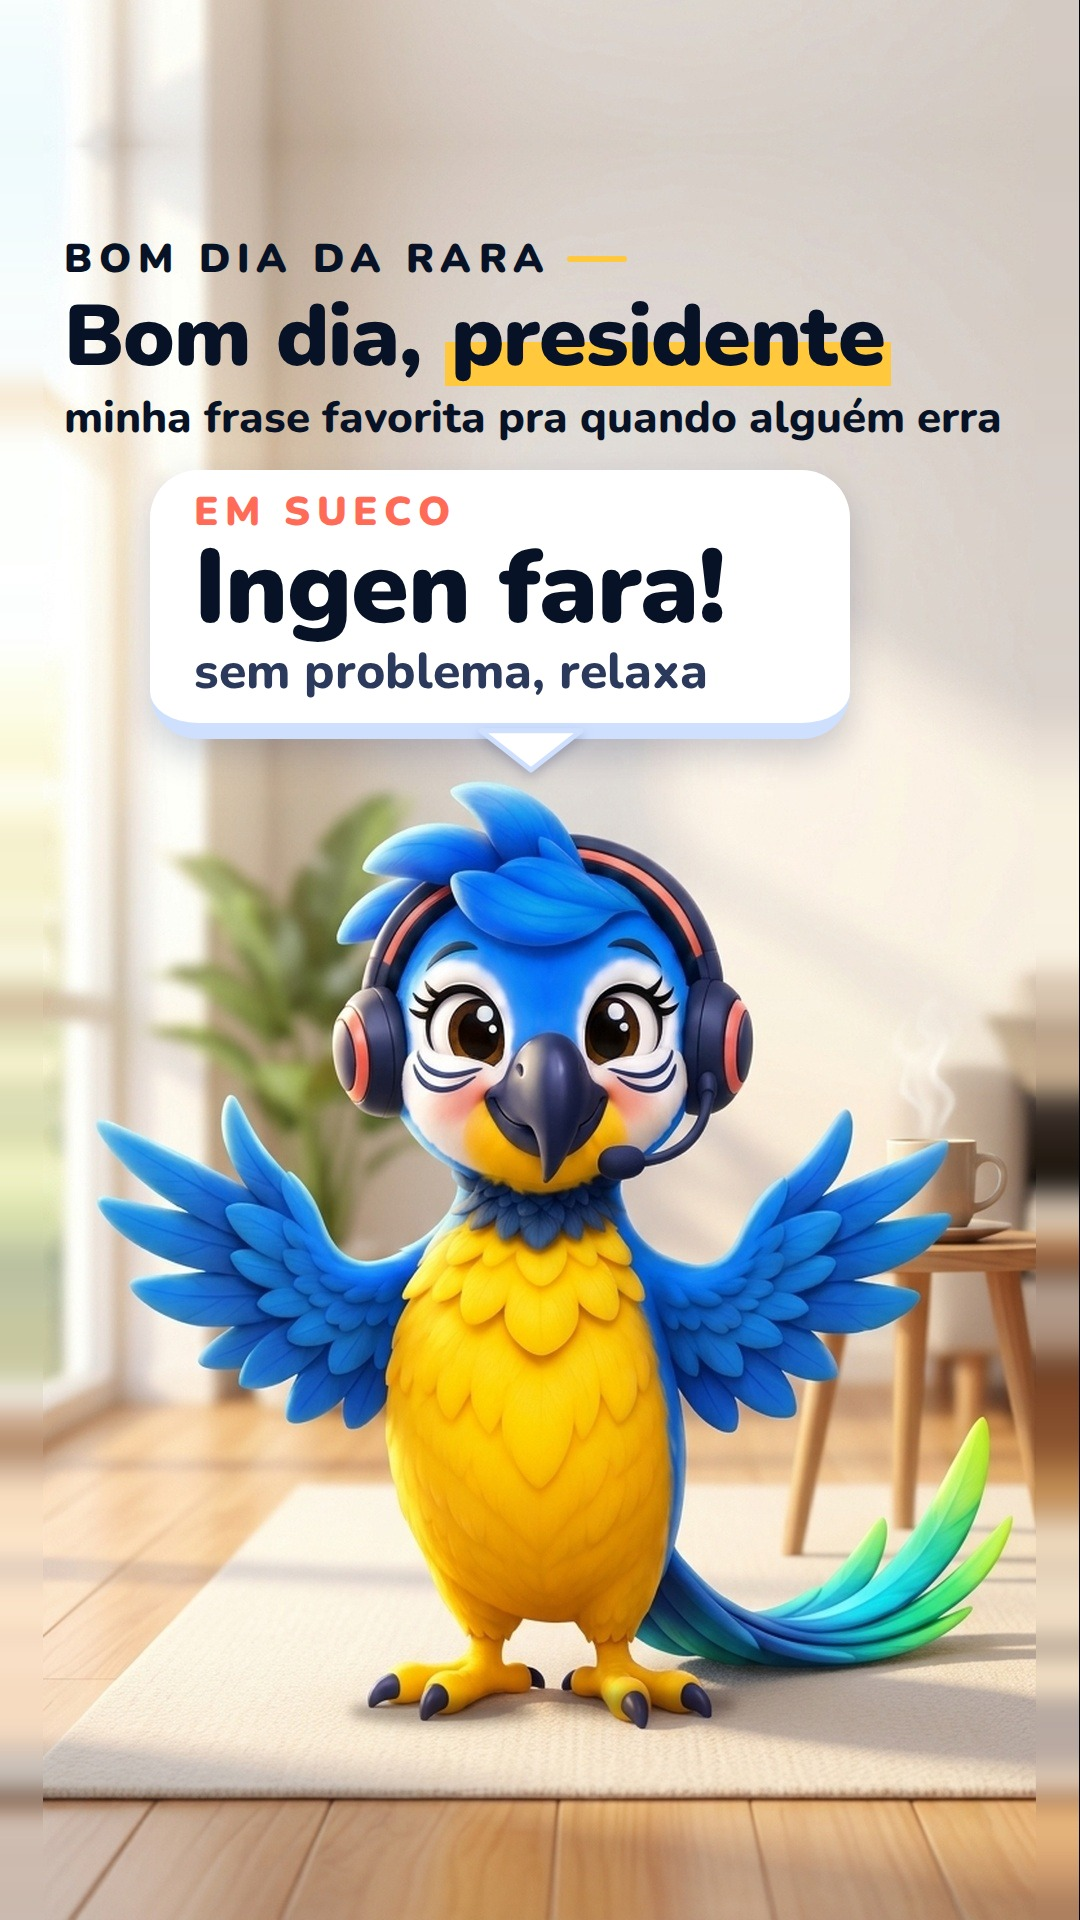
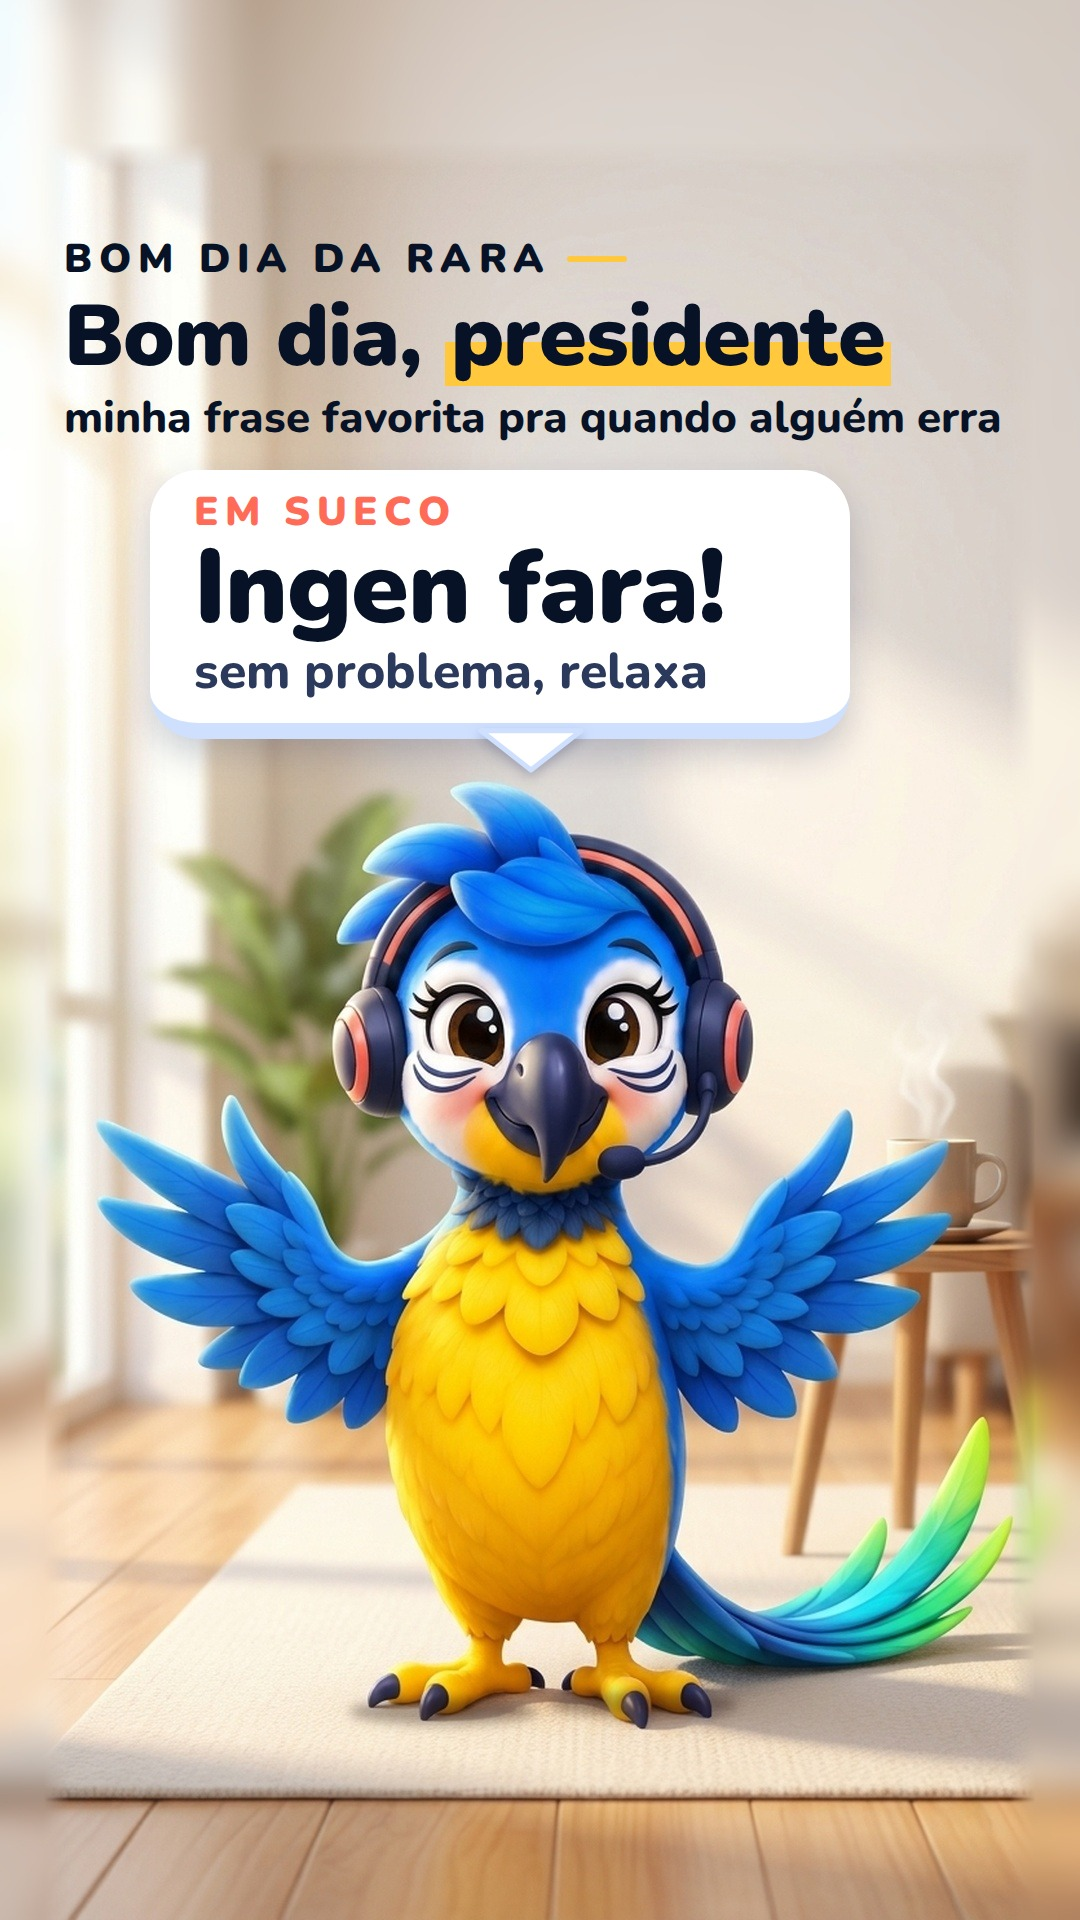
fix(arara): bordas dos stories 216 e 218 com fundo desfocado e log da producao semanal

diff --git a/semana_23_29_feed/gen/prep_story2.py b/semana_23_29_feed/gen/prep_story2.py
@@ -1,0 +1,27 @@
+import numpy as np
+from PIL import Image, ImageFilter, ImageDraw
+D='/home/rodrigo/.openclaw/workspace/arara_social/semana_23_29_feed/gen/'
+cfg={'st216':('ter_story216.jpg',[(309,1208),(464,1202)]),'st218':('ter_story218_v2.jpg',[(309,1193),(470,1168)])}
+S=0.92
+for k,(f,feet) in cfg.items():
+    im=Image.open(D+f).convert('RGB'); W,H=im.size
+    sh=Image.new('L',(W,H),0); d=ImageDraw.Draw(sh)
+    for (x,y) in feet: d.ellipse((x-72,y-3,x+72,y+16),fill=150)
+    sh=sh.filter(ImageFilter.GaussianBlur(4))
+    a=np.array(im).astype(float); m=np.array(sh).astype(float)/255*0.6
+    im=Image.fromarray((a*(1-m[...,None])+np.array([35,18,10])*m[...,None]).astype(np.uint8))
+    w=int(1080*S); h=int(w*H/W)
+    if h<1920*S: h=int(1920*S)
+    sm=im.resize((w,int(w*H/W)),Image.LANCZOS); h=sm.size[1]
+    x0=(1080-w)//2; y0=1920-h
+    cv=Image.new('RGB',(1080,1920))
+    cv.paste(sm,(x0,y0))
+    top=sm.crop((0,0,w,y0+6)).transpose(Image.FLIP_TOP_BOTTOM); cv.paste(top,(x0,0))
+    # bordas por espelhamento (sem listras)
+    left=sm.crop((0,0,x0,sm.size[1])).transpose(Image.FLIP_LEFT_RIGHT)
+    right=sm.crop((w-x0,0,w,sm.size[1])).transpose(Image.FLIP_LEFT_RIGHT)
+    cv.paste(left,(0,y0)); cv.paste(right,(x0+w,y0))
+    # cantos do topo: espelha tambem o topo ja espelhado
+    topl=cv.crop((0,y0,x0,y0+y0+6)).transpose(Image.FLIP_TOP_BOTTOM) if y0>0 else None
+    if topl is not None: cv.paste(topl,(0,0)); cv.paste(cv.crop((x0+w,y0,1080,y0+y0+6)).transpose(Image.FLIP_TOP_BOTTOM),(x0+w,0))
+    cv.save(D+k+'_base.jpg',quality=95); print(k,x0,y0,w,h)

diff --git a/semana_23_29_feed/gen/prep_story3.py b/semana_23_29_feed/gen/prep_story3.py
@@ -1,0 +1,28 @@
+import numpy as np
+from PIL import Image, ImageFilter, ImageDraw
+D='/home/rodrigo/.openclaw/workspace/arara_social/semana_23_29_feed/gen/'
+cfg={'st216':('ter_story216.jpg',[(309,1208),(464,1202)]),'st218':('ter_story218_v2.jpg',[(309,1193),(470,1168)])}
+S=0.92
+for k,(f,feet) in cfg.items():
+    im=Image.open(D+f).convert('RGB'); W,H=im.size
+    sh=Image.new('L',(W,H),0); d=ImageDraw.Draw(sh)
+    for (x,y) in feet: d.ellipse((x-72,y-3,x+72,y+16),fill=150)
+    sh=sh.filter(ImageFilter.GaussianBlur(4))
+    a=np.array(im).astype(float); m=np.array(sh).astype(float)/255*0.6
+    im=Image.fromarray((a*(1-m[...,None])+np.array([35,18,10])*m[...,None]).astype(np.uint8))
+    w=int(1080*S); sm=im.resize((w,int(w*H/W)),Image.LANCZOS); h=sm.size[1]
+    x0=(1080-w)//2; y0=1920-h
+    # fundo desfocado (cover) + imagem nitida com borda suave
+    sc=max(1080/W,1920/H); bgim=im.resize((int(W*sc)+2,int(H*sc)+2),Image.LANCZOS)
+    bgim=bgim.crop(((bgim.size[0]-1080)//2,(bgim.size[1]-1920)//2,(bgim.size[0]-1080)//2+1080,(bgim.size[1]-1920)//2+1920)).filter(ImageFilter.GaussianBlur(16))
+    cv=bgim.copy()
+    m=Image.new('L',(w,h),255); md=ImageDraw.Draw(m); F=26
+    for i in range(F):
+        v=int(255*i/F); md.rectangle((i,0,i,h),fill=v) ; md.rectangle((w-1-i,0,w-1-i,h),fill=v)
+    # topo
+    for i in range(F):
+        v=int(255*i/F)
+        for x in range(w):
+            if m.getpixel((x,i))>v: m.putpixel((x,i),v)
+    cv.paste(sm,(x0,y0),m)
+    cv.save(D+k+'_base.jpg',quality=95); print(k,x0,y0,w,h)

diff --git a/rara_log_geracao.md b/rara_log_geracao.md
@@ -976,3 +976,6 @@ G15 italiano v2 (06/11/2026): rara_gesto_italiano_v2---ead3910f salva como gesto
 - **Stories 204, 205 e 206 regerados com rabo em feixe de penas (17/11/2026, ~14h25 UTC), pedido do Rodrigo ("o rabo não parece de arara"):** a 1ª rodada (rabo em S) virou fita e foi reprovada; a 2ª, com referência de outra cena, copiou a pose errada (descartada); a 3ª, só com descrição em texto ("feixe de penas longas, rígidas e pontiagudas, sem S nem laço"), foi aprovada: 204 = `geradas/qua_call_v5.jpg`, 205 = `geradas/qua_2_v4.jpg`, 206 = `geradas/qua_3_v5.jpg`. Telas recompostas por `compor_telas.py qua` (agora aceita o episódio como argumento), `img/stories/story-204..206.jpg` publicados (commit 3133cb0, sha256 da URL pública igual ao local, dry-run OK). Originais em `_historico/rabo_reto_20261117/diario_qua/`. O 212 (Raro na rede) ficou com a cena original `sab_3` (o rabo já estava aninhado na rede; a v3/v4 criaram um segundo rabo e foram descartadas). Lição: não passar imagem de outra cena como "referência de rabo" (o gerador copia a pose); descrever o rabo em palavras. Gasto desta autorização: ~US$ 1,8 de US$ 2,00.
 - **Rara em camadas, rodada 3 (17/11/2026), pedido do Rodrigo via Claude Code (4 defeitos vistos no site):** sem geração paga (custo US$ 0). (1) mancha escura sob a ponta do bico: repintada na camada da cabeça, bico_cima com contorno limpo; (2) lascas amarelas na gola com a cabeça girada: peito e gola visíveis no repouso passaram para o corpo, cabeça só mantém o que está escondido; franja cinza recolorida; remendo de nuca de `rara_l_costas` amaciado (fora da lista, só esse remendo); (3) íris fantasma: miolo dos olhos repintado a partir do original, sem contorno pontilhado nem crescente; (4) ombros com asas abertas: rampa suave no limite interno da asa, flanco do corpo com borda em degradê, canto do ombro fechado removido. Repouso contra a C01: cabeça 4,03 → 3,94; peito 0,88, pés 0,06 e cauda 0,13 iguais. Branch `rascunho/rara-camadas-r3`, sem merge no main.
 - **Rara em camadas, poses do hero: VALENTE (18/11/2026), pedido do Rodrigo via Claude Code (ART-14):** 19 camadas e 3 estados em `personagens/rara/poses_hero/rara_valente/`, quadro 2508 x 2508, pivôs, ordem, prévia, prova de movimento e compensação para o site. Base gerada em 4K real com `google/gemini-3.1-flash-image` (o `gemini-3-pro-image` foi descartado por perder o rosto) e cinco edições em 4K. Para entregar 4K subi `agents.defaults.mediaMaxMb` de 6 (padrão) para 30 no `openclaw.json` (backup `openclaw.json.bak-20261118-123721`). Repouso contra a original: cabeça 5,2, corpo e peito 1,3, pés 4,1, cauda 4,3. Limites: cunha clara no ombro direito com a asa a 10 graus ou mais, olhos fechado e feliz fracos no olho direito. **DORMINDO NÃO FEITA:** falta a imagem de corpo inteiro. Custo estimado US$ 1,2 a 2,0 (oito imagens 4K, uma falhou por tamanho e uma foi descartada). Rascunho no branch `rascunho/rara-valente-camadas`, sem merge.
+- **Rara em camadas, rodada 2 (18/11/2026), pedido do Rodrigo via Claude Code (ART-14):** VALENTE: ombros limpos a ±14 graus (base escondida das asas, ilhas de pena na cabeça e degradê nas costas) e `olhos_felizes` com os dois olhos; `olhos_fechados` segue sem cílios porque a fonte do gerador não os tem (precisa regerar). DORMINDO: busto na manta em `personagens/rara/poses_hero/rara_dormindo/`, 9 camadas e 6 estados (sonolento, espiando esq/dir), quadro 2508 x 2508, pivôs, ordem, prévia e prova de movimento. Base em 4K real a partir de `pose-dormindo.webp` e três edições (`google/gemini-3.1-flash-image`); 4 imagens em 4K, estimativa US$ 0,6 a 1,2; teto US$ 3,00. Branch `rascunho/rara-valente-r2`, sem mesclar no main.
+- **Rara VALENTE, rodada 2b (18/11/2026): `olhos_fechados` regerado.** Correção do registro acima: o `g1` antigo já tinha cílios nos dois olhos (eu o julguei por um recorte cortado); o olho esquerdo do espectador fica quase todo atrás do bico e do fone. Regerado o `g1` em 4K (`google/gemini-3.1-flash-image`, 1 imagem, estimativa US$ 0,15 a 0,30), alinhado em 0 px; só a camada `olhos_fechados` mudou (pálpebra e cílios esquerdos mais marcados). Total da rodada 2: 5 imagens em 4K, US$ 0,75 a 1,5 (teto US$ 3,00).
+- **Produção semanal 23 a 29/11/2026 (sexta 20/11, ~12h a 13h UTC), rotina arara-producao-semanal, plano aprovado em 12/11 (decisão 19):** 6 carrosséis do feed produzidos em 1080 x 1350 (`posts.json`, `img/posts/`, fontes em `semana_23_29_feed/`): `pio-japones` (seg 23, 5 slides), `como-funciona-1` (ter 24, 6), `mico-t2` (qua 25, 5, auditada quadro a quadro, nenhum refeito), `thanksgiving` (qui 26, 6), `falso-blackfriday` (sex 27, 6, FA07 reaproveitada com sombra de contato, "Errou? Treinou" trocado por "Bora de novo?"), `traduz-ponta-lingua` (sáb 28, 6, capa TA01 reprovada pela regra de física e refeita em cena). Stories novos (1080 x 1920) 216 a 221: ter 24 (8h bom dia sueco, 13h bastidores da missão, 19h modo carente de cronômetro) e qui 26 (8h mandarim, 13h Rara reage, 19h árabe). Os stories de seg, qua, sex, sáb e dom já eram os 15 do Diário (201 a 215, 19h, 3 telas por dia), que ocupam o teto de 3 por dia; Bom dia e Rara reage desses dias NÃO foram produzidos (decisão pendente do Rodrigo). Geração: `google/gemini-3.1-flash-image` pela ferramenta de imagem (OpenRouter com US$ 0,76 de saldo, abaixo do mínimo), 26 imagens (seg 6 + ter story 3, qui 10, sáb 7), custo estimado US$ 1,8 a US$ 0,068 por imagem, sem retorno de custo da ferramenta; teto da rotina US$ 3,00. Commit 0812650 no arara-social-assets. Dry-run de `publish.py` e `publish_story.py` rodado (resultado na entrega). Nada agendado e nada publicado; aguarda OK.
